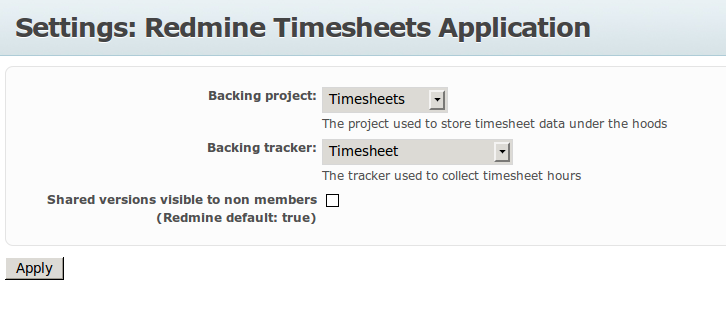
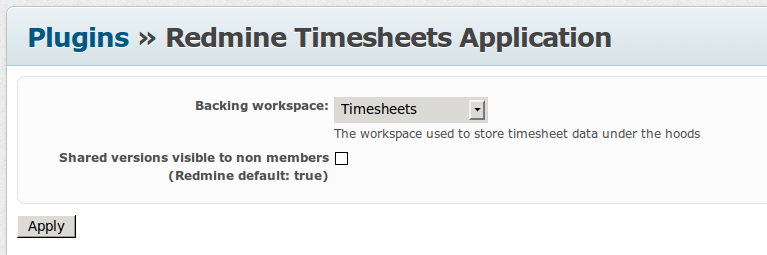
Removed backing tracker configuration now unnecessary

Changed region(s): [[0.0, 0.0, 1.0, 0.7137], [0.0, 0.7961, 1.0, 0.9882]]

diff --git a/init.rb b/init.rb
@@ -24,7 +24,7 @@ Redmine::Plugin.register :redmine_app_timesheets do
   name 'Redmine Timesheets Application'
   author 'Massimo Rossello'
   description 'Timesheets application for global app space'
-  version '1.3.12'
+  version '1.3.13'
   url 'https://github.com/maxrossello/redmine_app_timesheets.git'
   author_url 'https://github.com/maxrossello'
   requires_redmine :version_or_higher => '2.0.0'
@@ -33,7 +33,6 @@ Redmine::Plugin.register :redmine_app_timesheets do
 
   settings(:default => {
       'project' => "",
-      'tracker' => "",
       'public_versions' => true
   },
   :partial => 'timesheets/settings'

diff --git a/README.md b/README.md
@@ -1,6 +1,6 @@
 # Redmine Timesheet Application
 
-Tested with Redmine 2.4.5, compatible with 2.x.
+Tested with Redmine 2.4.5 and 2.5.1, compatible with 2.x.
 
 Application dependent from the [redmine_app__space](http://github.com/maxrossello/redmine_app__space) and
 [redmine_watcher_groups](http://github.com/maxrossello/redmine_watcher_groups) plugins.
@@ -57,7 +57,7 @@ completely removes the need to enable the Issue Tracking module in it.
 
 Fixed several security issues.
 
-Version 1.3.12 removes the need for hidden issues in the administrative project holding access permissions.
+Version 1.3.12 removes the need for hidden issues in the backing project holding access permissions.
 
 WARNING: if you migrate from version 1.2 or below you will have to redefine any view/edit permissions over Orders that you
 may have assigned through roles into the backing project.
@@ -123,8 +123,7 @@ plugins first, then follow the standard Redmine procedure for this plugin, inclu
 
 ### General configuration
 
-Create a backing project and, optionally, a new kind of tracker. You can name both of them "Timesheets", but any existing
-tracker will anyway do the job. Go to the plugin settings and reference them.
+Create a backing project. Go to the plugin settings and reference it.
 
 Unflag the entry 'Shared versions visible to non members' if you want to preserve Orders completely hidden to people not
 allowed to know their existence. Standard Redmine doesn't allow the usage to non project members, but nevertheless discloses
@@ -167,7 +166,7 @@ Since 1.3 you don't need to assign role permissions into the backing project.
 
 ![Configuration](screenshots/PluginConfig.png)
 
-Configure the backing project and the backing tracker. The backing project is an administrative-only one, and will not be
+Configure the backing project. The backing project is an administrative-only one, and will not be
 visible to users.
 
 Standard Redmine lists shared Target Versions to everybody (although they cannot be used by not project members).
